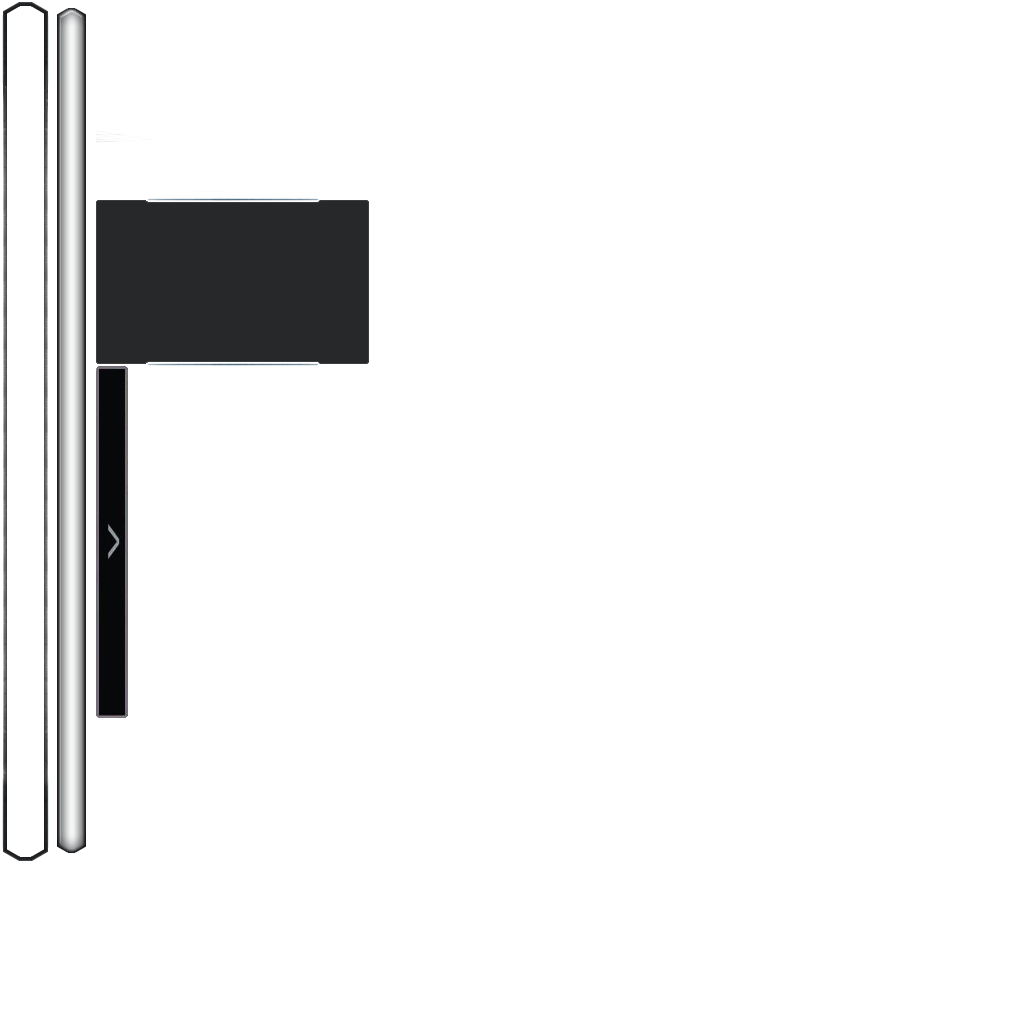
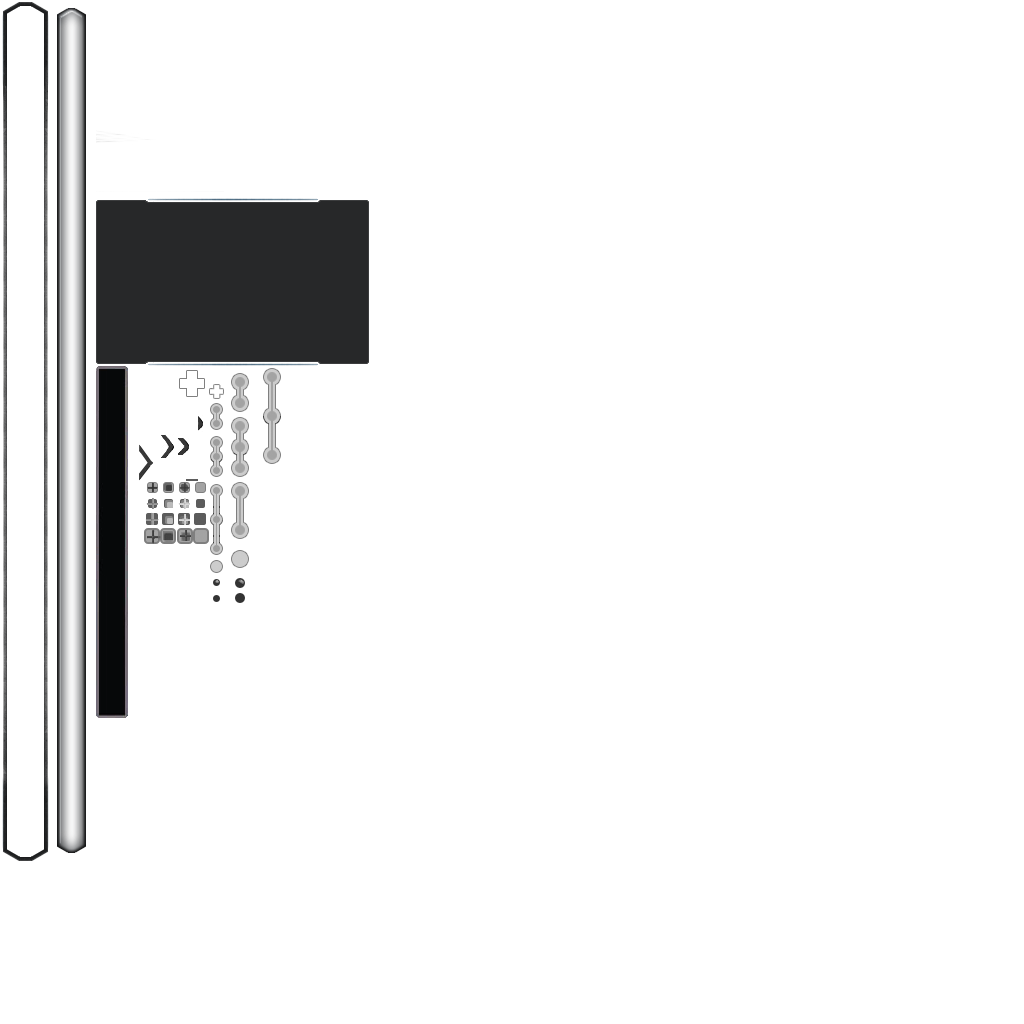
Separated the arrow from the UI toggle button sprite (works better on different sizes of buttons), UISprites that are set to maintain aspect ratio are drawn at the middle of the GUIComponent

Changed region(s): [[0.125, 0.3438, 0.2812, 0.5938]]

diff --git a/Barotrauma/BarotraumaClient/Source/GUI/UISprite.cs b/Barotrauma/BarotraumaClient/Source/GUI/UISprite.cs
@@ -138,11 +138,15 @@ namespace Barotrauma
             {
                 if (MaintainAspectRatio)
                 {
-                    float scale = (float)(rect.Width) / Sprite.SourceRect.Width;
+                    float scale = Math.Min((float)rect.Width / Sprite.SourceRect.Width, (float)rect.Height / Sprite.SourceRect.Height);
 
-                    spriteBatch.Draw(Sprite.Texture, rect,
-                        new Rectangle(Sprite.SourceRect.X, Sprite.SourceRect.Y, (int)(Sprite.SourceRect.Width), (int)(rect.Height / scale)),
-                        color, 0.0f, Vector2.Zero, spriteEffects, 0.0f);
+                    spriteBatch.Draw(Sprite.Texture, rect.Center.ToVector2(),
+                        Sprite.SourceRect,
+                        color, 
+                        rotation: 0.0f, 
+                        origin: Sprite.size / 2.0f,
+                        scale: scale,
+                        effects: spriteEffects, layerDepth: 0.0f);
                 }
                 else
                 {

diff --git a/Barotrauma/BarotraumaClient/Source/GameSession/CrewManager.cs b/Barotrauma/BarotraumaClient/Source/GameSession/CrewManager.cs
@@ -403,7 +403,7 @@ namespace Barotrauma
             wrongOrderList.RectTransform.SetAsLastChild();
 
             new GUIFrame(new RectTransform(new Point(
-                wrongOrderList.Rect.Width - toggleWrongOrderBtn.Rect.Width - wrongOrderList.Spacing, 
+                wrongOrderList.Rect.Width - toggleWrongOrderBtn.Rect.Width - wrongOrderList.Spacing * 2, 
                 wrongOrderList.Rect.Height), wrongOrderList.Content.RectTransform), 
                 style: null);
 
